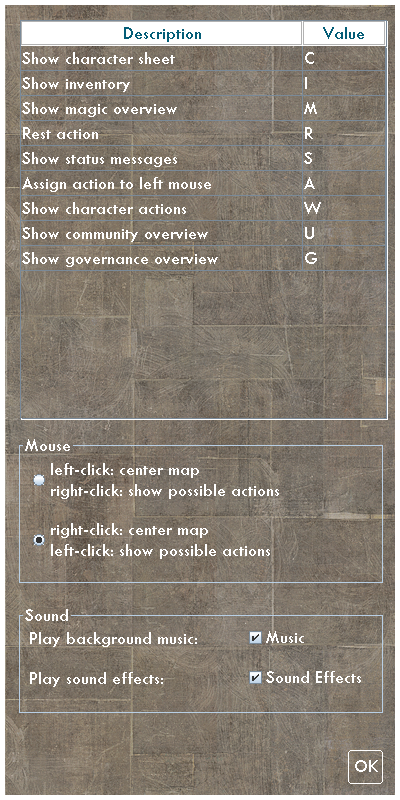
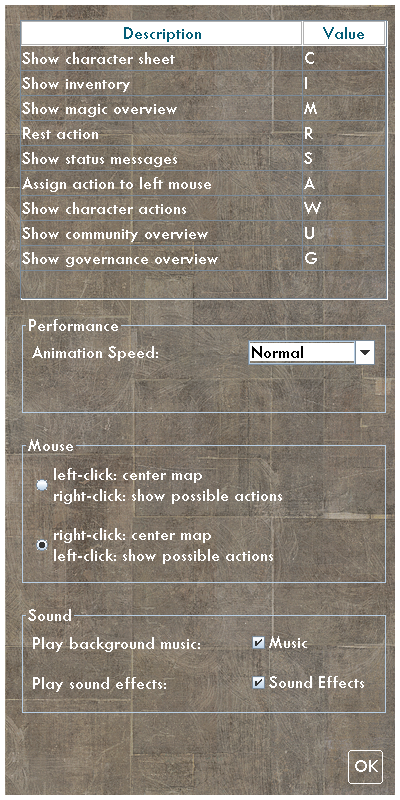
update controls screen

diff --git a/Controls.htm b/Controls.htm
@@ -31,5 +31,9 @@
 	In the controls dialog it's possible to change key bindings for common dialogs:<br><br>
 	<img src="controls.png">
 	<br>
+	<br>
+	It's also possible to change the animation speed to enable faster turns.<br>
+	The mouse controls can be swapped so that left mouse and right mouse controls are inverted.<br>
+	Both music and sound effects can be turned on or off.<br>
   </body>
 </html>
